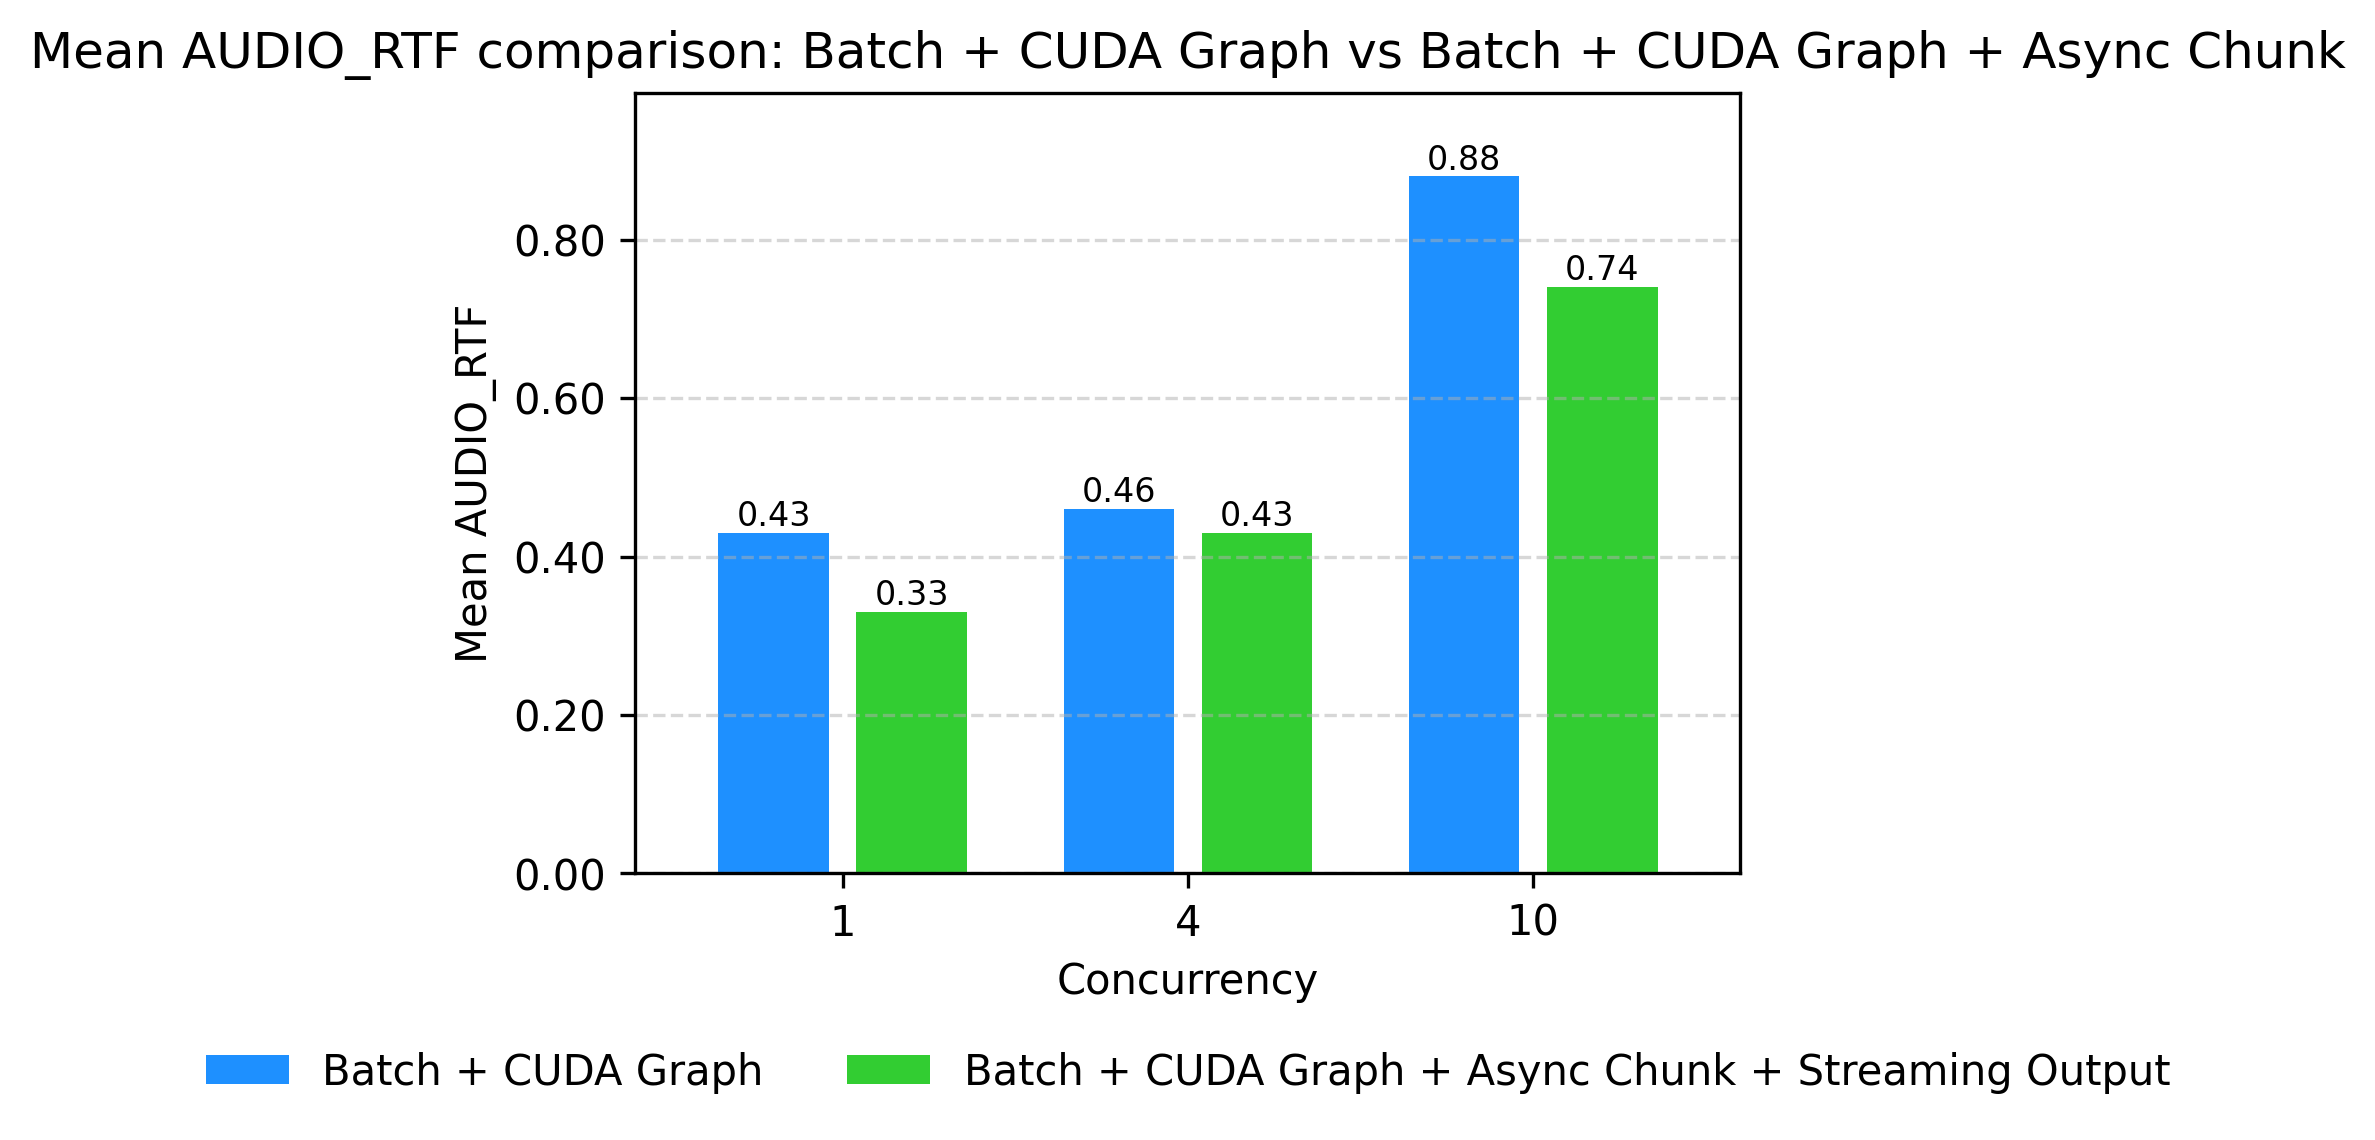
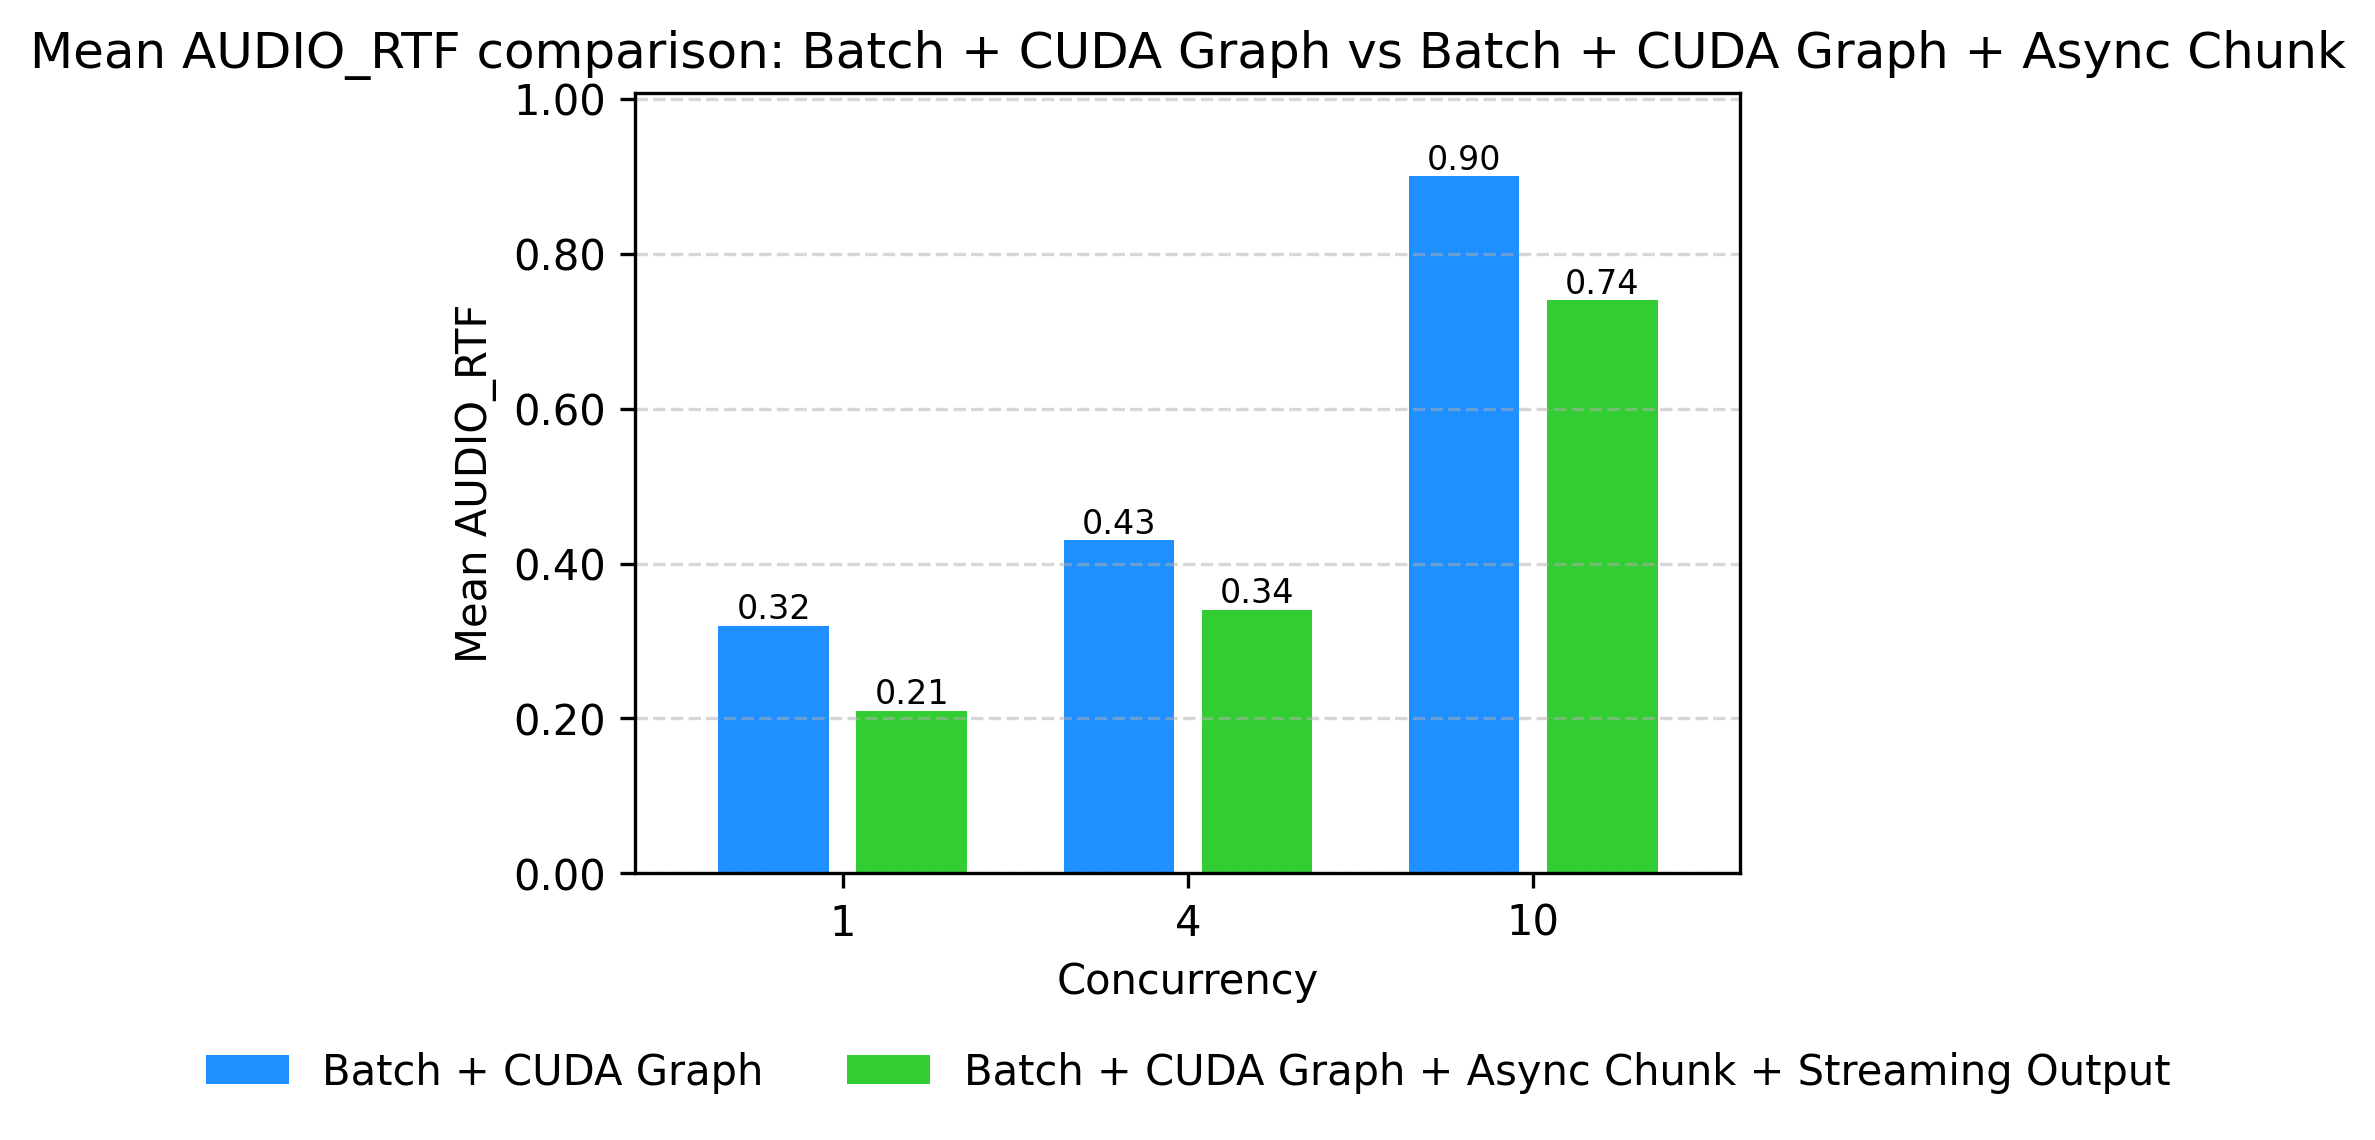
Update Qwen3-Omni performance blog data and comparison figures from bugfix qwen3 omni and  tts blog

diff --git a/docs/design/qwen3_omni_tts_performance_blog.md b/docs/design/qwen3_omni_tts_performance_blog.md
@@ -75,9 +75,9 @@ Each optimization stacks on the previous one. The summary plots below show the c
 <td><img src="figures/omni/Summary_RTF_vs_features.png" alt="Qwen3-Omni RTF: stacked optimization" width="100%"/></td>
 </tr></table>
 
-- **E2EL reduction**: ~91% at concurrency 10 (1,523,135 ms -> 130,682 ms); ~81% at concurrency 1 (325,865 ms -> 60,436 ms)
-- **TTFP reduction**: ~99.2% at concurrency 10 (1,522,804 ms -> 12,262 ms); ~99.6% at concurrency 1 (325,517 ms -> 1,263 ms)
-- **RTF reduction**: ~89% at concurrency 10 (6.94 -> 0.74); ~78% at concurrency 1 (1.52 -> 0.33)
+- **E2EL reduction**: ~74% at concurrency 10 (410,054 ms -> 104,901 ms); ~90% at concurrency 1 (426,529 ms -> 41,216 ms)
+- **TTFP reduction**: ~96% at concurrency 10 (409,705 ms -> 16,482 ms); ~99.7% at concurrency 1 (426,078 ms -> 1,164 ms)
+- **RTF reduction**: ~74% at concurrency 10 (2.83 -> 0.74); ~90% at concurrency 1 (2.08 -> 0.21)
 
 **Qwen3-TTS** (H200):
 
@@ -93,13 +93,13 @@ Each optimization stacks on the previous one. The summary plots below show the c
 
 **Benchmark environment:**
 
-| | Qwen3-Omni | Qwen3-TTS |
-| --- | --- | --- |
-| **GPU** | A100 | H200 |
+| | Qwen3-Omni                  | Qwen3-TTS |
+| --- |-----------------------------| --- |
+| **GPU** | A100                        | H200 |
 | **Model** | Qwen3-Omni-30B-A3B-Instruct | Qwen3-TTS-12Hz-1.7B-CustomVoice |
-| **vLLM** | v0.16.0 | v0.16.0 |
-| **vllm-omni** | commit 070ea0dd | commit 3bc89de0 |
-| **CUDA** | 12.8 | 12.8 |
+| **vLLM** | v0.17.0                     | v0.16.0 |
+| **vllm-omni** | commit 199f7832             | commit 3bc89de0 |
+| **CUDA** | 12.9                        | 12.8 |
 
 This post walks through each optimization in the same order they are typically enabled in practice, then ends with deployment playbooks for both models.
 
@@ -129,19 +129,19 @@ Batching alone greatly reduces E2EL and RTF across all concurrencies. The bigges
 <td><img src="figures/omni/Mean_AUDIO_RTF_Baseline_vs_Batch.png" alt="Qwen3-Omni RTF: Baseline vs Batch" width="100%"/></td>
 </tr></table>
 
-| Metric | Concurrency | Baseline  | + Batch | Improvement |
-| --- | --- |-----------|---------| --- |
-| E2EL (ms) | 1 | 325,865   | 238,556 | 1.4× |
-| E2EL (ms) | 4 | 988,039   | 259,586 | 3.8× |
-| E2EL (ms) | 10 | 1,523,135 | 262,400 | 5.8× |
-| TTFP (ms) | 1 | 325,517   | 238,257 | 1.4× |
-| TTFP (ms) | 4 | 987,708   | 259,343 | 3.8× |
-| TTFP (ms) | 10 | 1,522,803 | 262,157 | 5.8× |
-| RTF | 1 | 1.52      | 1.48    | 1.0× |
-| RTF | 4 | 6.66      | 1.62    | 4.1× |
-| RTF | 10 | 6.94      | 2.18    | 3.2× |
+| Metric | Concurrency | Baseline | + Batch | Improvement |
+| --- | --- | --- | --- | --- |
+| E2EL (ms) | 1 | 426,529 | 307,719 | 1.4× |
+| E2EL (ms) | 4 | 407,213 | 376,934 | 1.1× |
+| E2EL (ms) | 10 | 410,054 | 234,844 | 1.7× |
+| TTFP (ms) | 1 | 426,078 | 307,262 | 1.4× |
+| TTFP (ms) | 4 | 406,843 | 376,466 | 1.1× |
+| TTFP (ms) | 10 | 409,705 | 234,557 | 1.7× |
+| RTF | 1 | 2.08 | 1.51 | 1.4× |
+| RTF | 4 | 2.55 | 1.83 | 1.4× |
+| RTF | 10 | 2.83 | 2.28 | 1.2× |
 
-At concurrency 10, E2EL drops from ~1,523 s to ~262 s; at concurrency 1, from ~326 s to ~239 s.
+At concurrency 10, E2EL drops from ~410 s to ~235 s; at concurrency 1, from ~427 s to ~308 s.
 
 **Qwen3-TTS** (H200):
 
@@ -183,19 +183,19 @@ In stage configs, this is represented by `enforce_eager: false` for stages where
 <td><img src="figures/omni/Mean_AUDIO_RTF_Batch_vs_Batch_CUDA_Graph.png" alt="Qwen3-Omni RTF: Batch vs CUDA Graph" width="100%"/></td>
 </tr></table>
 
-| Metric | Concurrency | Batch   | + CUDA Graph | Improvement |
-| --- | --- |---------|--------------| --- |
-| E2EL (ms) | 1 | 238,556 | 67,381       | 3.5× |
-| E2EL (ms) | 4 | 259,586 | 98,981       | 2.6× |
-| E2EL (ms) | 10 | 262,400 | 153,352      | 1.7× |
-| TTFP (ms) | 1 | 238,257 | 67,121       | 3.5× |
-| TTFP (ms) | 4 | 259,343 | 98,679       | 2.6× |
-| TTFP (ms) | 10 | 262,158 | 152,792      | 1.7× |
-| RTF | 1 | 1.48    | 0.43         | 3.4× |
-| RTF | 4 | 1.62    | 0.46         | 3.5× |
-| RTF | 10 | 2.18    | 0.88         | 2.5× |
+| Metric | Concurrency | Batch | + CUDA Graph | Improvement |
+| --- | --- | --- | --- | --- |
+| E2EL (ms) | 1 | 307,719 | 61,613 | 5.0× |
+| E2EL (ms) | 4 | 376,934 | 79,019 | 4.8× |
+| E2EL (ms) | 10 | 234,844 | 126,867 | 1.9× |
+| TTFP (ms) | 1 | 307,262 | 61,257 | 5.0× |
+| TTFP (ms) | 4 | 376,466 | 78,634 | 4.8× |
+| TTFP (ms) | 10 | 234,557 | 126,534 | 1.9× |
+| RTF | 1 | 1.51 | 0.32 | 4.7× |
+| RTF | 4 | 1.83 | 0.43 | 4.3× |
+| RTF | 10 | 2.28 | 0.90 | 2.5× |
 
-For the larger Qwen3-Omni model (30B-A3B), CUDA Graph provides a significant improvement in E2EL, TTFP, and RTF. At concurrency 1, E2EL drops from ~239 s to ~67 s; at concurrency 10, from ~262 s to ~153 s.
+For the larger Qwen3-Omni model (30B-A3B), CUDA Graph provides a significant improvement. At concurrency 1, E2EL drops from ~308 s to ~62 s; at concurrency 10, from ~235 s to ~127 s.
 
 **Qwen3-TTS** (H200):
 
@@ -230,17 +230,17 @@ So in practice: streaming output defines *how* bytes are sent to the client; asy
 
 | Metric | Concurrency | Batch + CG | + Async Chunk | Improvement |
 | --- | --- | --- | --- | --- |
-| E2EL (ms) | 1 | 67,381 | 60,435 | 1.1× |
-| E2EL (ms) | 4 | 98,981 | 90,969 | 1.1× |
-| E2EL (ms) | 10 | 153,352 | 130,682 | 1.2× |
-| TTFP (ms) | 1 | 67,121 | 1,263 | 53× |
-| TTFP (ms) | 4 | 98,679 | 3,175 | 31× |
-| TTFP (ms) | 10 | 152,792 | 12,262 | 12× |
-| RTF | 1 | 0.43 | 0.33 | 1.3× |
-| RTF | 4 | 0.46 | 0.43 | 1.1× |
-| RTF | 10 | 0.88 | 0.74 | 1.2× |
+| E2EL (ms) | 1 | 61,613 | 41,216 | 1.5× |
+| E2EL (ms) | 4 | 79,019 | 67,584 | 1.2× |
+| E2EL (ms) | 10 | 126,867 | 104,901 | 1.2× |
+| TTFP (ms) | 1 | 61,257 | 1,164 | 53× |
+| TTFP (ms) | 4 | 78,634 | 3,152 | 24.9× |
+| TTFP (ms) | 10 | 126,534 | 16,482 | 7.7× |
+| RTF | 1 | 0.32 | 0.21 | 1.5× |
+| RTF | 4 | 0.43 | 0.34 | 1.3× |
+| RTF | 10 | 0.90 | 0.74 | 1.2× |
 
-Enabling both brings TTFP down sharply (concurrency 1: 67,121 ms -> 1,263 ms, **~98% reduction**; concurrency 4: 98,679 ms -> 3,175 ms, **~97% reduction**). E2EL and RTF also improve at every concurrency.
+Enabling both brings TTFP down sharply (concurrency 1: 61,257 ms -> 1,164 ms, **~98% reduction**; concurrency 4: 78,634 ms -> 3,152 ms, **~96% reduction**). E2EL and RTF also improve at every concurrency.
 
 **Qwen3-TTS** (H200):
 
@@ -260,7 +260,7 @@ Enabling both brings TTFP down sharply (concurrency 1: 67,121 ms -> 1,263 ms, **
 | RTF | 1 | 0.407 | 0.340 | 1.2× |
 | RTF | 10 | 1.403 | 0.898 | 1.6× |
 
-The TTFP improvement is the headline result for both models. For Qwen3-TTS at concurrency 1, users hear the first audio in **97 ms** instead of 2,335 ms - a **24x reduction**. For Qwen3-Omni at concurrency 1, TTFP drops from 67 s to 1.3 s - a **53x reduction**.
+The TTFP improvement is the headline result for both models. For Qwen3-TTS at concurrency 1, users hear the first audio in **97 ms** instead of 2,335 ms - a **24x reduction**. For Qwen3-Omni at concurrency 1, TTFP drops from 61 s to 1.2 s - a **53x reduction**.
 
 ---
 
@@ -368,7 +368,7 @@ The WebSocket protocol uses `audio.start` / binary PCM chunks / `audio.done` fra
 {"type":"session.done","total_sentences":2}
 ```
 
-<iframe width="560" height="315" src="https://www.youtube.com/embed/O3IVniwwKNA" frameborder="0" allow="accelerometer; autoplay; clipboard-write; encrypted-media; gyroscope; picture-in-picture" allowfullscreen></iframe>
+<iframe width="560" height="315" src="https://www.youtube.com/embed/rB_MgPUx46U" frameborder="0" allow="accelerometer; autoplay; clipboard-write; encrypted-media; gyroscope; picture-in-picture" allowfullscreen></iframe>
 
 ---
 
